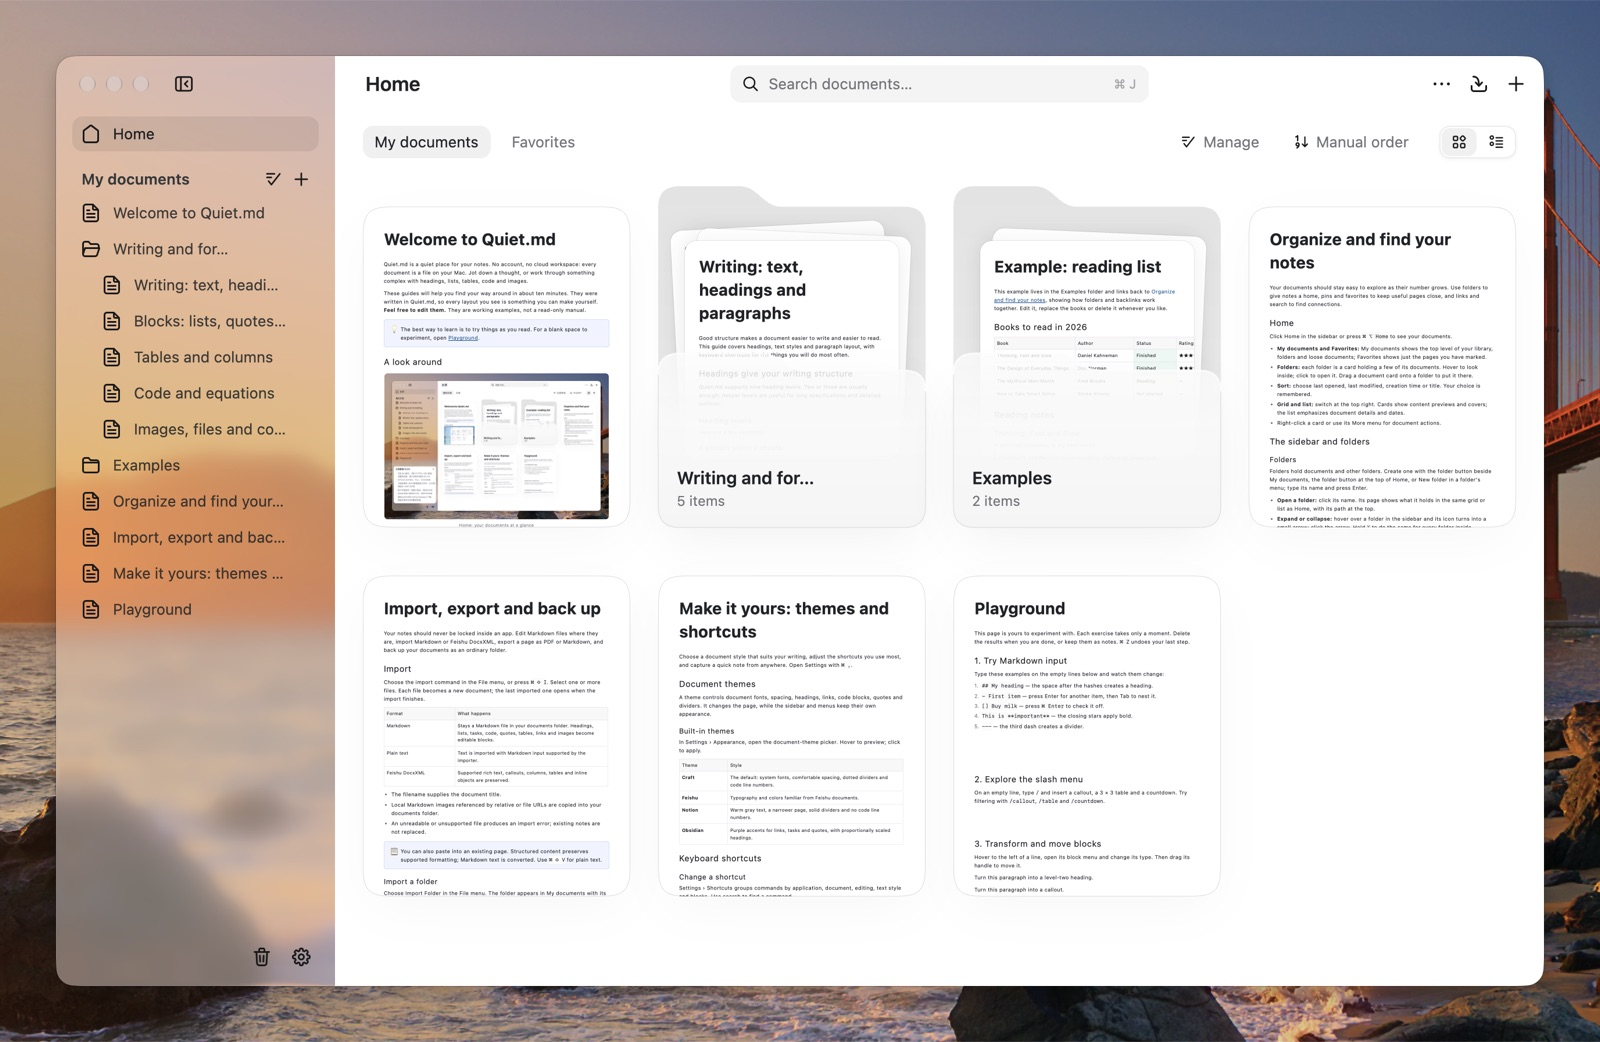
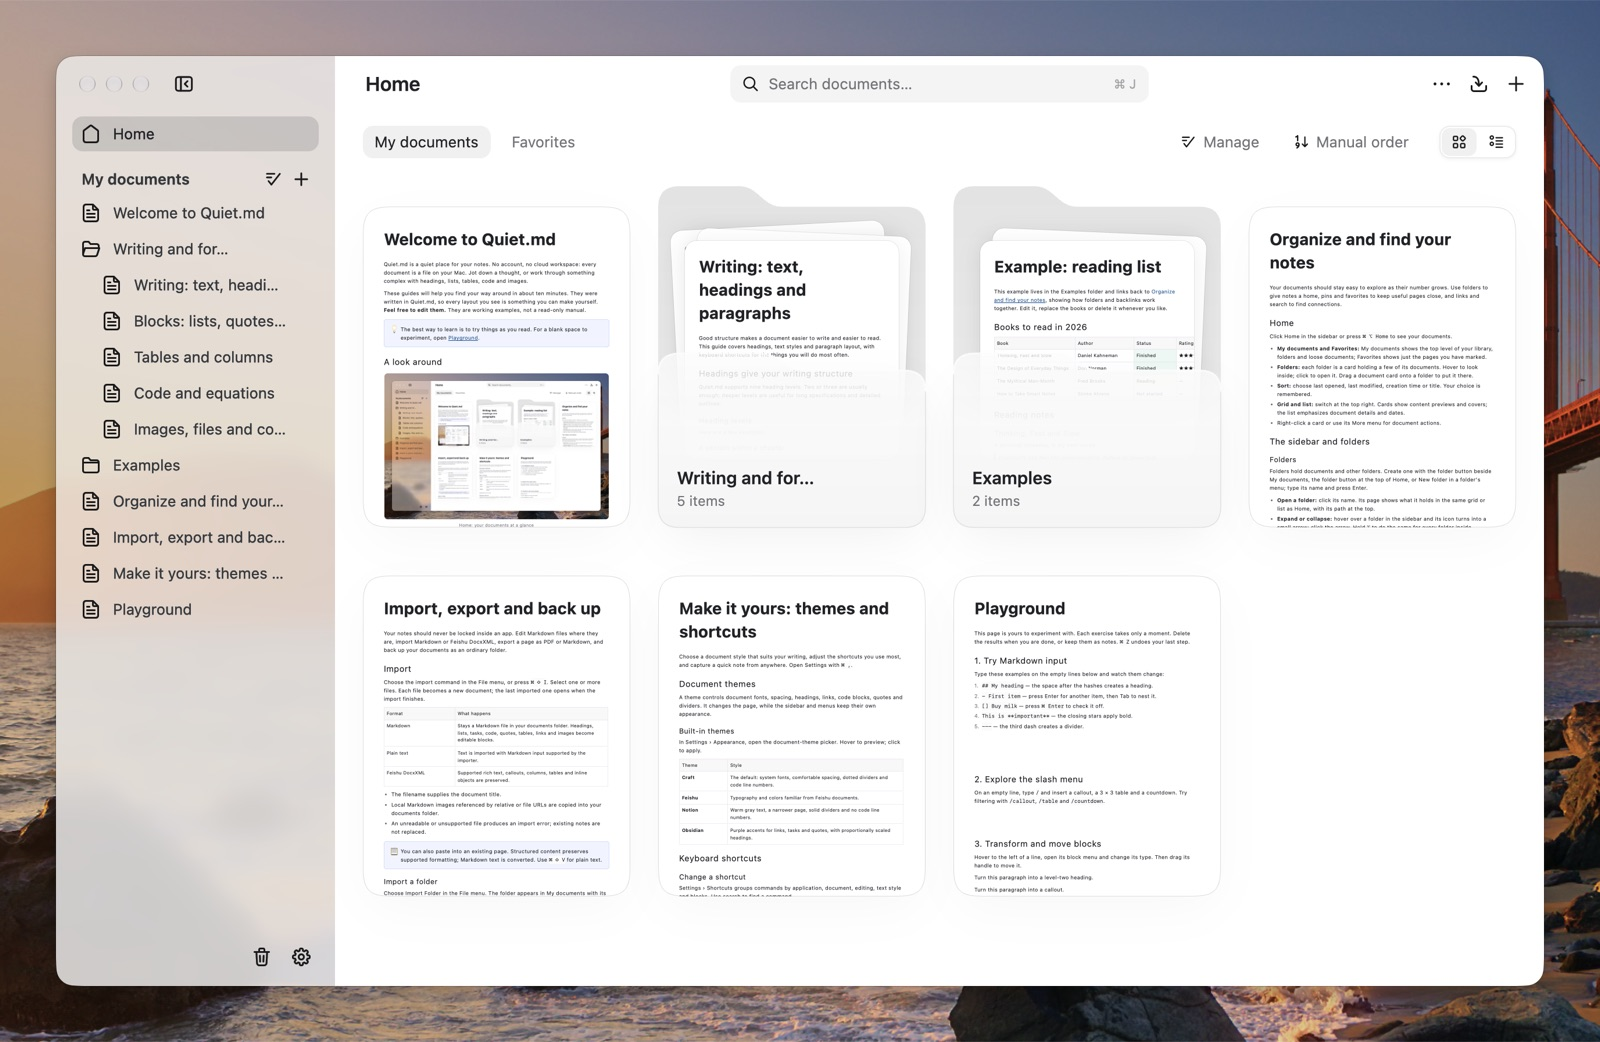
Refresh guide screenshots and tune native window tint

Changed region(s): [[0.0312, 0.0307, 0.3438, 0.952], [0.3125, 0.3685, 0.3438, 0.3992]]

diff --git a/src/theme.rs b/src/theme.rs
@@ -396,13 +396,15 @@ impl Theme {
     pub fn danger() -> Hsla { c(craft::R500) }
 
     // ---- Quiet.md shell
-    /// A light gray tint separates the sidebar from the white page while keeping wallpaper colors quiet.
-    /// The document pane paints its own opaque white surface.
+    /// The window tint keeps the native glass readable over both light and dark backdrops.
+    /// The document pane paints its own opaque surface.
     pub fn window() -> Hsla {
         // 外观 › 窗口背景: an opaque window keeps a moving desktop from showing
         // through the sidebar (which some people find distracting).
         if crate::settings::prefs().opaque_window || fullscreen() { return ca(craft::WINDOW, 1.) }
-        if crate::native_header::supported() { ca(craft::WINDOW, 0.) } else if crate::theme::glass() { ca(craft::WINDOW, 0.84) } else { ca(craft::WINDOW, 1.) }
+        if crate::native_header::supported() { ca(craft::CHROME, 0.76) }
+        else if crate::theme::glass() { ca(craft::WINDOW, 0.84) }
+        else { c(craft::WINDOW) }
     }
 
     /// Sidebar row label: text at 85%.
